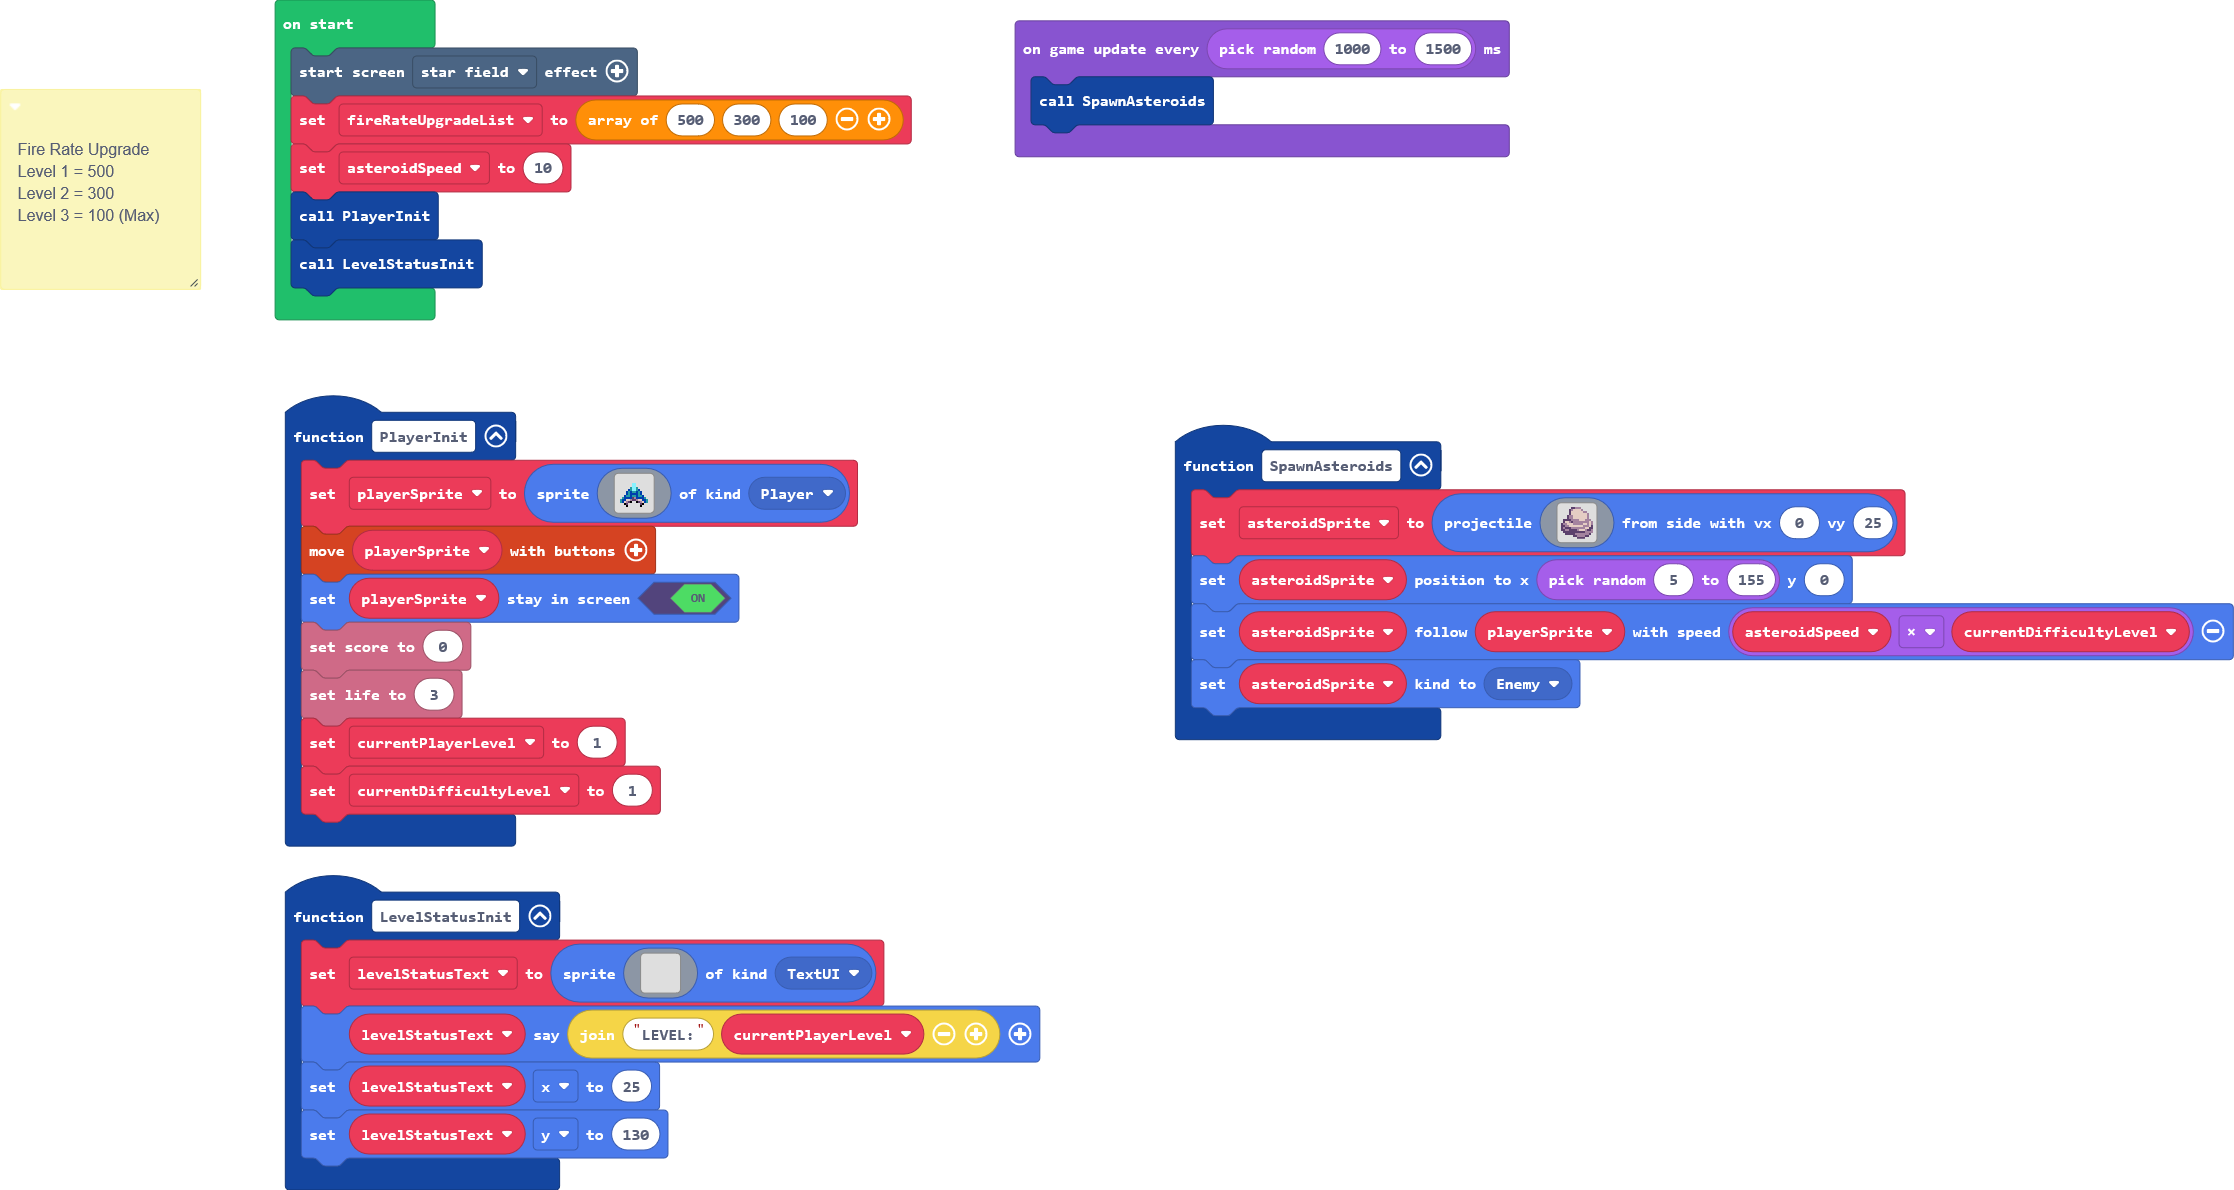
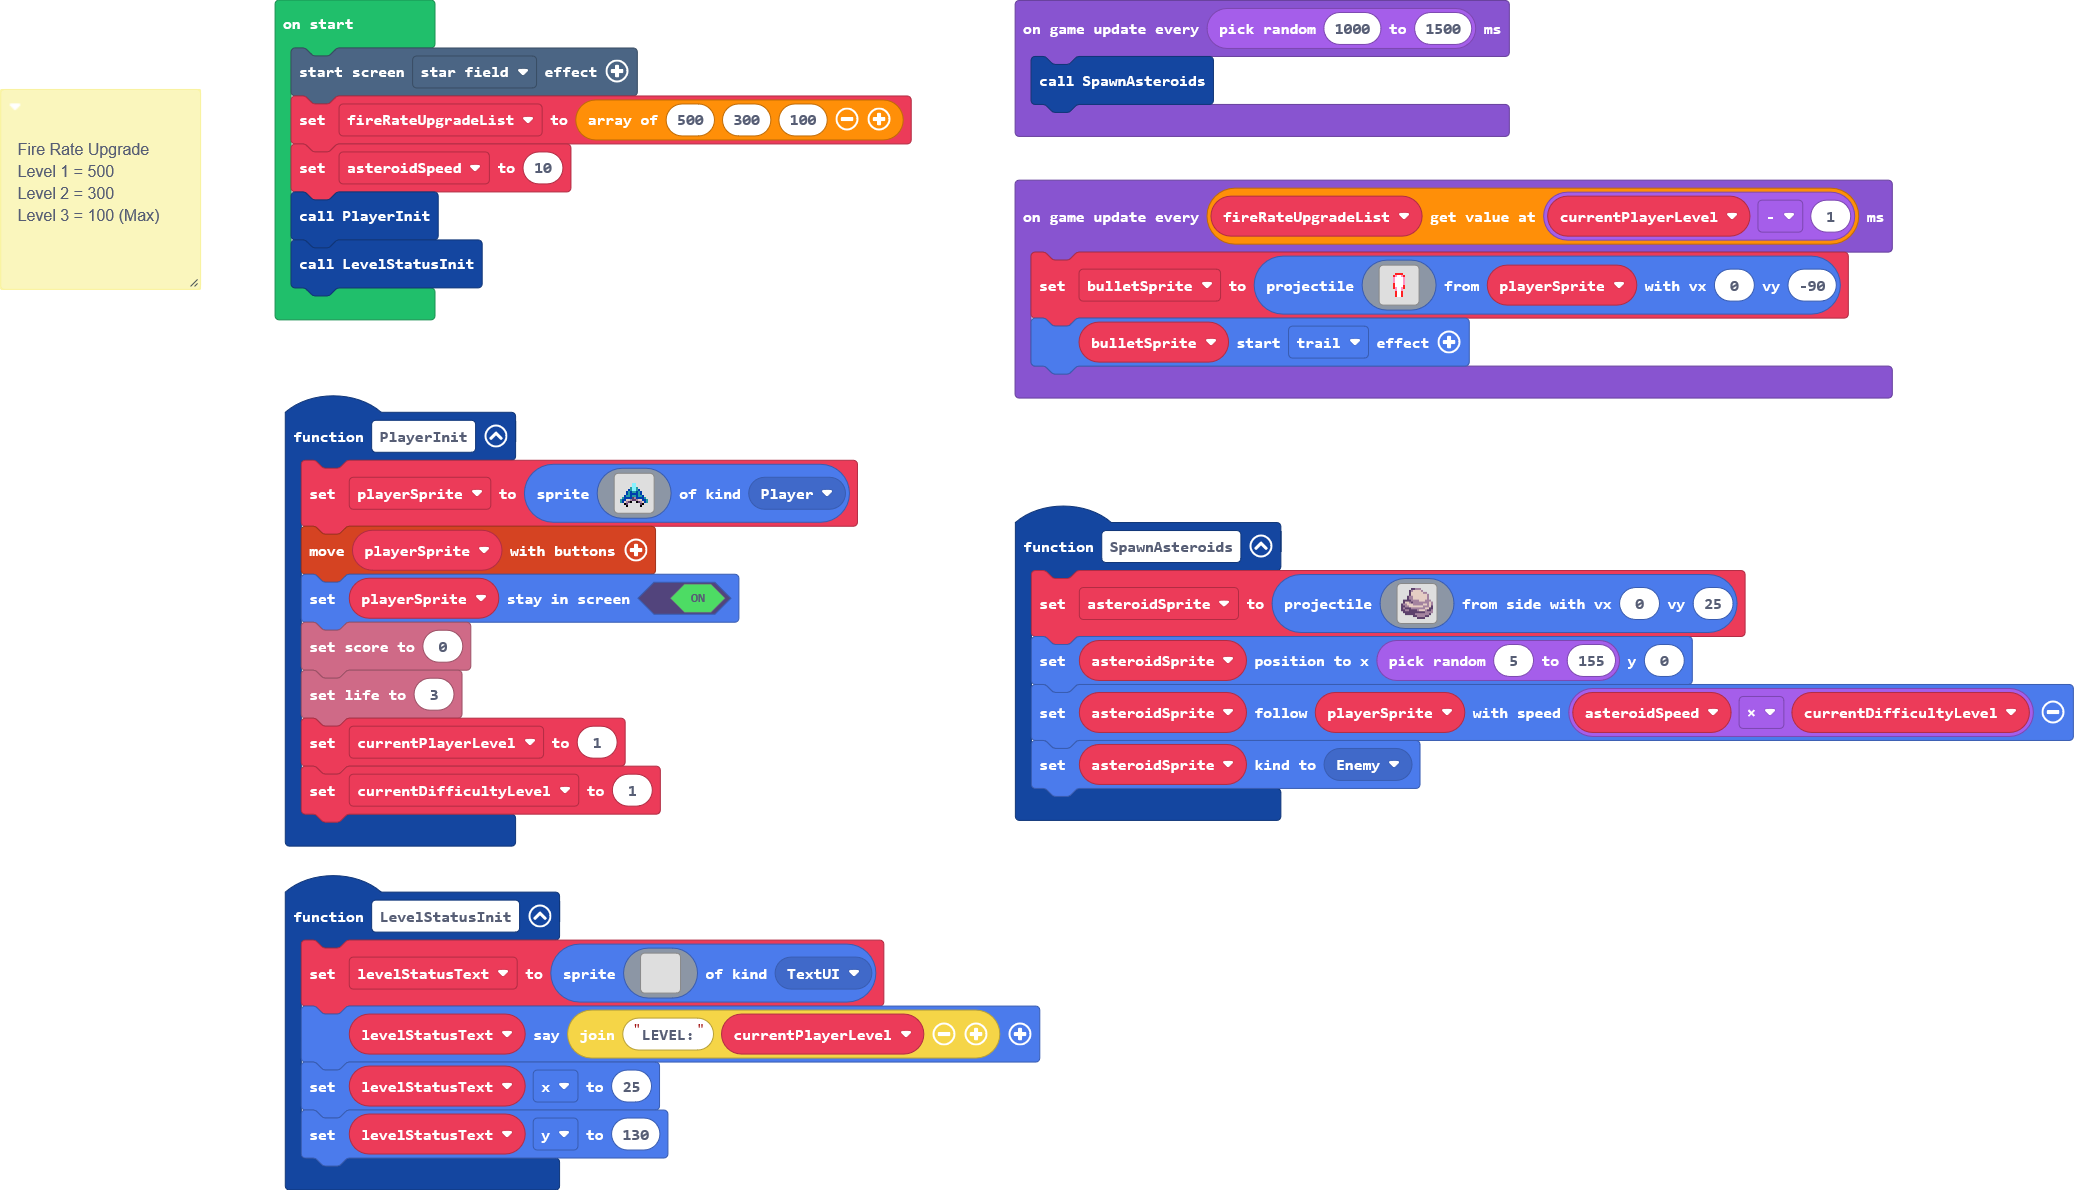
Auto Shoot

Changed region(s): [[0.0, 0.0, 1.0, 0.7151], [0.1234, 0.3109, 0.5246, 1.0]]

diff --git a/main.ts b/main.ts
@@ -82,6 +82,7 @@ function LevelStatusInit () {
     levelStatusText.x = 25
     levelStatusText.y = 130
 }
+let bulletSprite: Sprite = null
 let levelStatusText: Sprite = null
 let currentPlayerLevel = 0
 let currentDifficultyLevel = 0
@@ -95,4 +96,25 @@ PlayerInit()
 LevelStatusInit()
 game.onUpdateInterval(randint(1000, 1500), function () {
     SpawnAsteroids()
+})
+game.onUpdateInterval(fireRateUpgradeList[currentPlayerLevel - 1], function () {
+    bulletSprite = sprites.createProjectileFromSprite(img`
+        . . . . . . . . . . . . . . . . 
+        . . . . . . . . . . . . . . . . 
+        . . . . . . 2 2 2 2 . . . . . . 
+        . . . . . 2 3 1 1 3 2 . . . . . 
+        . . . . . 3 1 1 1 1 3 . . . . . 
+        . . . . . 3 1 1 1 1 3 . . . . . 
+        . . . . . 3 1 1 1 1 3 . . . . . 
+        . . . . . 2 1 1 1 1 3 . . . . . 
+        . . . . . 2 1 1 1 1 2 . . . . . 
+        . . . . . 2 3 1 1 3 2 . . . . . 
+        . . . . . . 3 1 1 3 . . . . . . 
+        . . . . . . 2 1 1 2 . . . . . . 
+        . . . . . . 2 1 1 2 . . . . . . 
+        . . . . . . 2 1 1 2 . . . . . . 
+        . . . . . . . . . . . . . . . . 
+        . . . . . . . . . . . . . . . . 
+        `, playerSprite, 0, -90)
+    bulletSprite.startEffect(effects.trail)
 })
